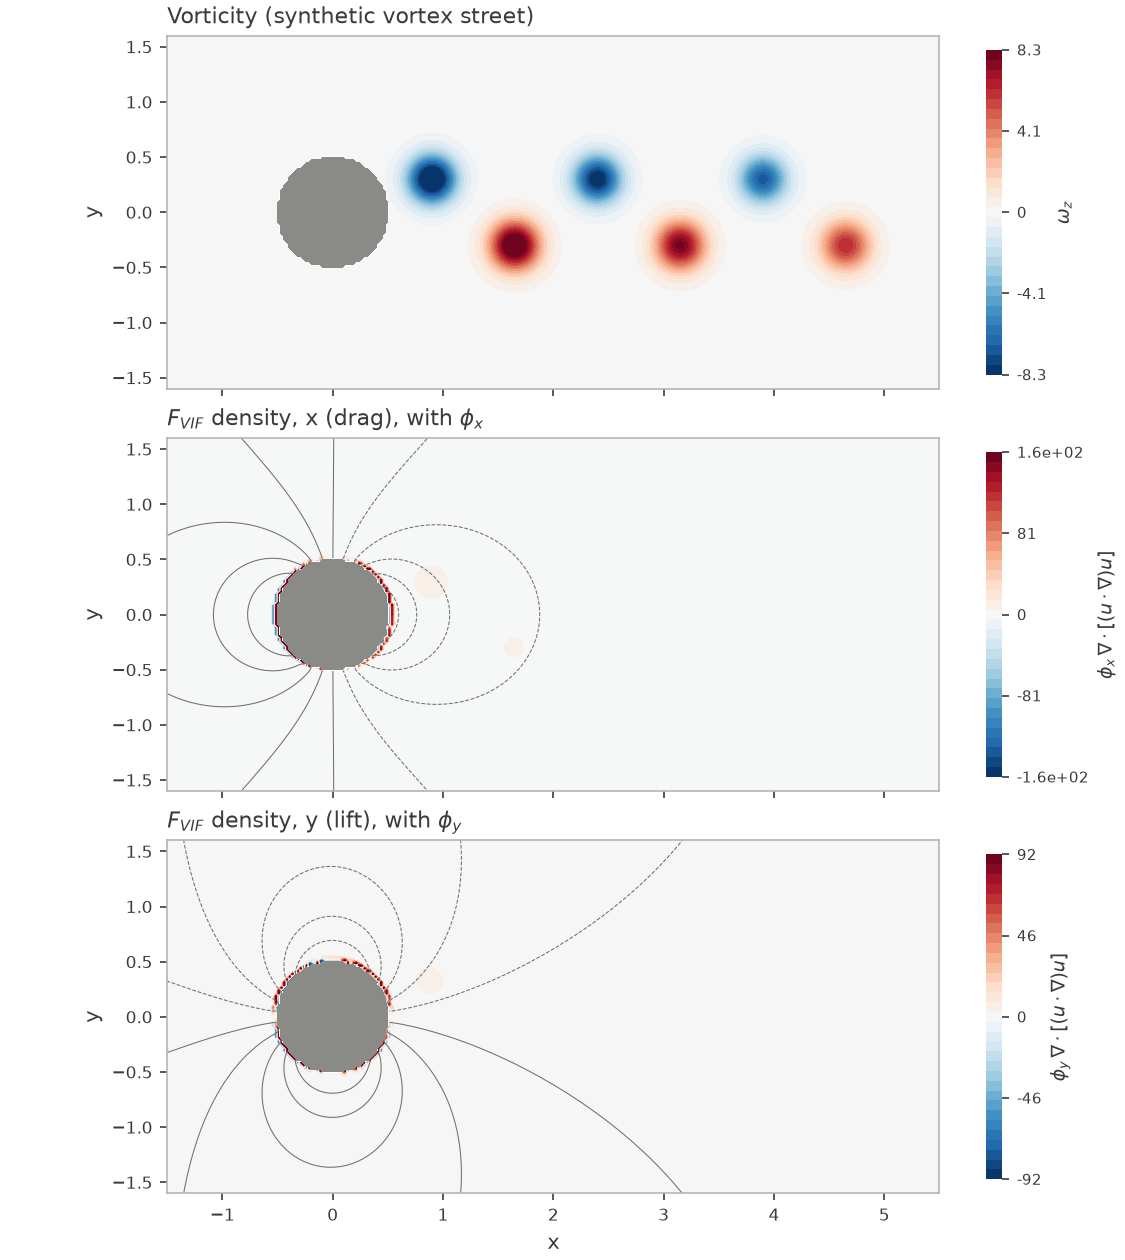
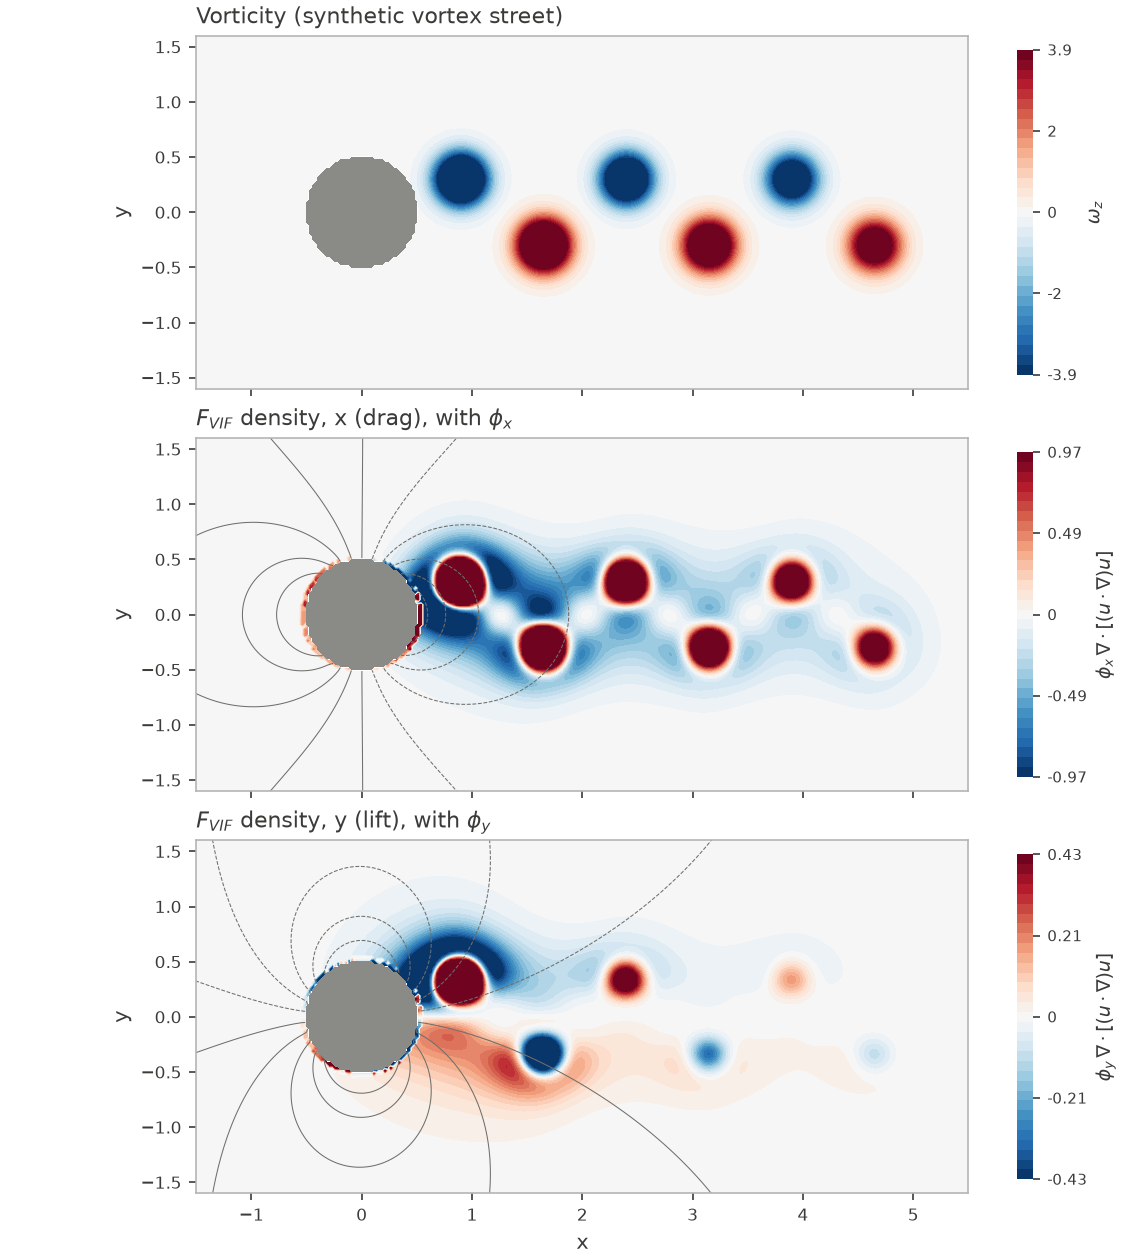
Plots: structure-based colour limits; slip-wall option for the demo
- examples/plot_fields.py sets symmetric colour limits from the flow
  structures (80th percentile of the non-negligible magnitudes) instead of the
  99.7th percentile, so near-wall peaks no longer wash out the vortices.
- fpm_partition_terms_2d gains slip_body for kinematic test flows that do not
  satisfy no-slip; the cylinder demo uses it, which removes a spurious wall
  layer from its F_VIF density (F_VIF now (+0.205, +0.061)).
- Regenerated both figures.

diff --git a/examples/plot_fields.py b/examples/plot_fields.py
@@ -2,7 +2,7 @@
 vorticity and the x/y vortex-induced force (F_VIF) densities phi_i div[(u.grad)u],
 with influence-potential
 contour lines (dashed where negative) on the force panels.
-Usage: python plot_fields.py IN.bin OUT.png [x0 x1 y0 y1 [vorticity title]]"""
+Usage: python plot_fields.py IN.bin OUT.png [x0 x1 y0 y1 [vorticity title [lamb]]]"""
 import sys
 import numpy as np
 import matplotlib
@@ -12,6 +12,8 @@ import matplotlib.pyplot as plt
 path, out = sys.argv[1], sys.argv[2]
 window = [float(v) for v in sys.argv[3:7]] if len(sys.argv) >= 7 else [-1.5, 5.5, -1.6, 1.6]
 vorticity_title = sys.argv[7] if len(sys.argv) >= 8 else "Vorticity (synthetic vortex street)"
+# Optional 8th argument "lamb": the density files hold -(omega x u).grad(phi_i) instead.
+lamb = len(sys.argv) >= 9 and sys.argv[8] == "lamb"
 with open(path, "rb") as f:
     nx, ny = np.fromfile(f, np.int32, 2)
     xc = np.fromfile(f, float, nx)
@@ -19,16 +21,29 @@ with open(path, "rb") as f:
     oz, fx, fy, phix, phiy, solid = [np.fromfile(f, float, nx * ny).reshape(ny, nx) for _ in range(6)]
 
 ink = "#3b3b38"
+
+
+def colour_limit(values, floor=0.02, pct=80):
+    """Symmetric colour limit set by the flow structures rather than by a few
+    near-wall peaks: the pct-th percentile of |value| over the cells whose
+    magnitude exceeds `floor` times the 99.9th percentile. Values beyond the
+    limit saturate."""
+    a = np.abs(values[np.isfinite(values)])
+    top = np.percentile(a, 99.9)
+    return np.percentile(a[a > floor * top], pct)
+
 panels = [
     (oz, None, r"$\omega_z$", vorticity_title),
-    (fx, phix, r"$\phi_x\,\nabla\cdot[(u\cdot\nabla)u]$", r"$F_{VIF}$ density, x (drag), with $\phi_x$"),
-    (fy, phiy, r"$\phi_y\,\nabla\cdot[(u\cdot\nabla)u]$", r"$F_{VIF}$ density, y (lift), with $\phi_y$"),
+    (fx, phix, r"$-(\omega\times u)\cdot\nabla\phi_x$" if lamb else r"$\phi_x\,\nabla\cdot[(u\cdot\nabla)u]$",
+     (r"Lamb-vector force density, x (drag), with $\phi_x$" if lamb else r"$F_{VIF}$ density, x (drag), with $\phi_x$")),
+    (fy, phiy, r"$-(\omega\times u)\cdot\nabla\phi_y$" if lamb else r"$\phi_y\,\nabla\cdot[(u\cdot\nabla)u]$",
+     (r"Lamb-vector force density, y (lift), with $\phi_y$" if lamb else r"$F_{VIF}$ density, y (lift), with $\phi_y$")),
 ]
 fig, axes = plt.subplots(3, 1, figsize=(7.5, 8.4), sharex=True, constrained_layout=True)
 for ax, (field, potential, label, title) in zip(axes, panels):
     fluid = np.where(solid > 0, np.nan, field)
     sel = np.ix_((yc >= window[2]) & (yc <= window[3]), (xc >= window[0]) & (xc <= window[1]))
-    lim = np.nanpercentile(np.abs(fluid[sel]), 99.7)
+    lim = colour_limit(fluid[sel])
     levels = np.linspace(-lim, lim, 34)  # 33 bins, the middle one centred on zero
     cs = ax.contourf(xc, yc, np.clip(fluid, -lim, lim), levels=levels, cmap="RdBu_r")
     if potential is not None:

diff --git a/README.md b/README.md
@@ -293,7 +293,8 @@ core, force partition, benchmark, and tests in this repository are new.
 *Synthetic demo (`examples/demo_cylinder_vortices.f90`): a stair-step
 cylinder in a street of Lamb-Oseen vortices, a prescribed kinematic flow,
 showing the vortex-induced force density `phi_i div[(u . grad) u]`.
-F_VIF = (+0.270, -0.127). It runs in 0.5 s on one A100 and 3.6 s on one CPU core.*
+F_VIF = (+0.205, +0.061). The prescribed flow does not satisfy no-slip, so
+the cylinder's faces are treated as slip faces (`slip_body`). It runs in 0.5 s on one A100 and 3.6 s on one CPU core.*
 
 ## Build and run
 
